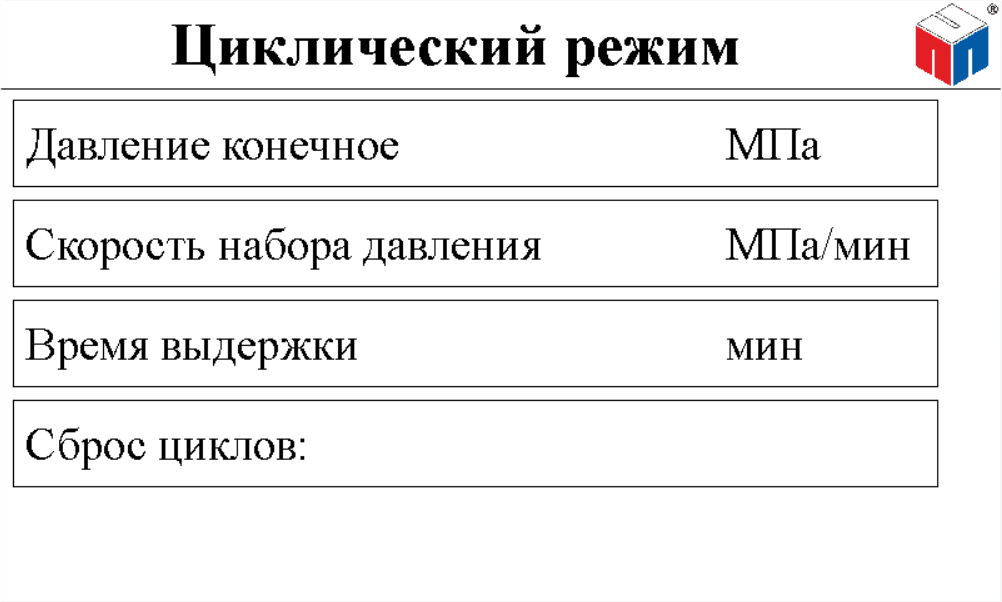
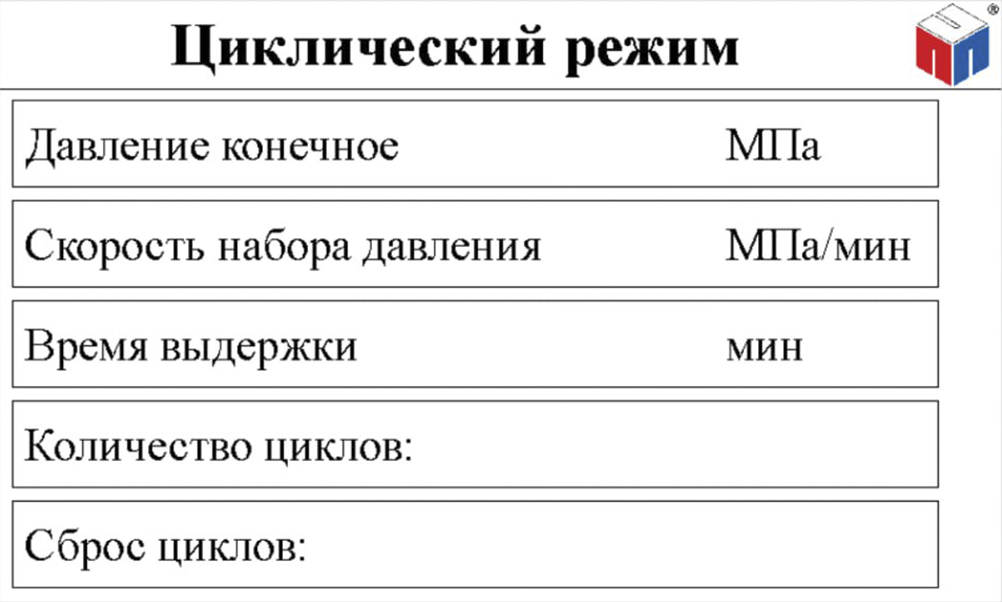
update sig pc

diff --git a/SIG/PC/utils/ModbusSlave.py b/SIG/PC/utils/ModbusSlave.py
@@ -28,7 +28,7 @@ class ModbusSlave:
     WRITE_MULTIPLE_COILS = 0x0F
     WRITE_MULTIPLE_REGISTERS = 0x10
 
-    def __init__(self, port='/dev/ttyS0', baudrate=9600, timeout=1, slave_id=1):
+    def __init__(self, port='/dev/ttyS0', baudrate=9600, timeout=1, slave_id=1, bytesize=8, parity='E', stopbits=1):
         """
         Инициализация Modbus Slave
 
@@ -37,6 +37,14 @@ class ModbusSlave:
         :param timeout: таймаут ожидания данных
         :param slave_id: идентификатор устройства (1-247)
         """
+        self.thread = None
+        self.port = port
+        self.baudrate = baudrate
+        self.timeout = timeout
+        self.bytesize = bytesize
+        self.parity = parity
+        self.stopbits = stopbits
+        self.serial = serial.Serial()
 
         self.slave_id = slave_id
         self.running = False
@@ -51,28 +59,93 @@ class ModbusSlave:
         # Инициализация CRC функции для RTU
         self.crc16 = mkCrcFun(0x18005, rev=True, initCrc=0xFFFF, xorOut=0x0000)
 
-
-        self.serial = serial.Serial(
-            port=port,
-            baudrate=baudrate,
-            bytesize=8,
-            parity='E',
-            stopbits=1,
-            timeout=timeout
-        )
-
         self.command_list = [self.WRITE_SINGLE_REGISTER, self.WRITE_MULTIPLE_REGISTERS]
 
     def start(self):
-        """Запуск сервера Modbus Slave"""
+        """Запуск сервера Modbus Slave с автоопределением порта"""
         self.running = True
 
-        self.thread = threading.Thread(target=self._rtu_loop)
+        if hasattr(self, 'serial') and self.serial.is_open:
+            self.serial.close()
 
-        self.thread.daemon = True
-        self.thread.start()
-        threading.Timer(5.0, self.read_delay).start()
+        # Попытка автоматического определения порта
+        if self._auto_detect_port():
+            self.thread = threading.Thread(target=self._rtu_loop)
+            self.thread.daemon = True
+            self.thread.start()
+            threading.Timer(5.0, self.read_delay).start()
+        else:
+            print("Не удалось найти подходящий COM-порт")
+            self.running = False
+            return
 
+    def _auto_detect_port(self, timeout=2.0):
+        """Автоматическое определение COM-порта"""
+        import serial.tools.list_ports
+
+        # Получаем список доступных портов
+        available_ports = serial.tools.list_ports.comports()
+        test_ports = [p.device for p in available_ports]
+
+        if not test_ports:
+            print("Нет доступных COM-портов")
+            return False
+
+        print(f"Доступные порты: {test_ports}")
+
+        for port in test_ports:
+            try:
+                print(f"Проверка порта {port}...")
+                ser = serial.Serial(
+                    port=port,
+                    baudrate=self.baudrate,
+                    bytesize=self.bytesize,
+                    parity=self.parity,
+                    stopbits=self.stopbits,
+                    timeout=self.timeout
+                )
+
+                # Проверяем, есть ли входящие данные
+                start_time = time.time()
+                data_received = False
+
+                while time.time() - start_time < timeout:
+                    if ser.in_waiting > 0:
+                        data = ser.read(ser.in_waiting)
+                        print(f"Получены данные на порту {port}: {data.hex()}")
+                        data_received = True
+                        break
+                    time.sleep(0.1)
+
+                if data_received:
+                    print(f"Выбран порт {port} (обнаружена активность)")
+                    self.port = port
+                    self.serial = ser
+                    return True
+                else:
+                    print(f"Порт {port} доступен, но активность не обнаружена")
+                    ser.close()
+
+            except serial.SerialException as e:
+                print(f"Ошибка при работе с портом {port}: {str(e)}")
+                continue
+
+        # Если ни один порт не подошел, пробуем использовать указанный в конфигурации
+        try:
+            print(f"Попытка использовать указанный порт {self.port}")
+            self.serial = serial.Serial(
+                port=self.port,
+                baudrate=self.baudrate,
+                bytesize=self.bytesize,
+                parity=self.parity,
+                stopbits=self.stopbits,
+                timeout=self.timeout
+            )
+            return True
+        except serial.SerialException as e:
+            print(f"Не удалось открыть указанный порт {self.port}: {str(e)}")
+
+            return False
 
     def read_delay(self):
         self.command_list.append(self.READ_HOLDING_REGISTERS)
@@ -85,7 +158,8 @@ class ModbusSlave:
             self.running = False
             self.thread.join()
 
-        self.serial.close()
+        if self.serial.is_open:
+            self.serial.close()
 
     def set_callback(self, function_code, callback):
         """

diff --git a/SIG/PC/frames/CycleSettings.py b/SIG/PC/frames/CycleSettings.py
@@ -48,9 +48,23 @@ class CycleSettings(BaseFrame):
 
         self.ent_time_pause.place(x=454, y=254, width=112)
 
+
+        self.cycle_need = ttk.Entry(self, style="Main.TEntry", font=('Times New Roman', 24), justify="center",
+                                        state="readonly")
+        self.cycle_need.insert(0, "0")
+
+        self.cycle_need.bind("<Button-1>",
+                            lambda e: self.on_entry_click(e, CYCLES_NEED_CYCLE , min_val=TIME_WAIT_MIN_MAX[0],
+                                                          max_val=TIME_WAIT_MIN_MAX[1],
+                                                          entry=self.cycle_need,
+                                                          ask_float=False))
+
+        self.cycle_need.place(x=454, y=330, width=112)
+
+
         self.reset_cycle_set = ttk.Button(self, text="Сбросить", command=self.reset_cycle_set_func,
                                           style="NonActive.TButton")
-        self.reset_cycle_set.place(x=450, y=330, width=120, height=50)
+        self.reset_cycle_set.place(x=450, y=406, width=120, height=50)
 
         # Кнопки
         btn_back = ttk.Button(self, text="Выбор режима",
@@ -84,3 +98,4 @@ class CycleSettings(BaseFrame):
         self.refresh_entry(self.ent_pressure_end, PRESSURE_END_CYCLE, is_float=True)
         self.refresh_entry(self.ent_pressure_speed, PRESSURE_SPEED_CYCLE, is_float=True)
         self.refresh_entry(self.ent_time_pause, TIME_PAUSE_CYCLE, is_float=False)
+        self.refresh_entry(self.cycle_need, CYCLES_NEED_CYCLE, is_float=False)

diff --git a/SIG/PC/frames/CycleMode.py b/SIG/PC/frames/CycleMode.py
@@ -13,10 +13,10 @@ class CycleMode(BaseFrame):
         # label.pack(pady=20)
 
         # Кнопка возврата к настройкам
-        btn_settings = ttk.Button(self, text="Настройки\n  режима",
+        self.btn_settings = ttk.Button(self, text="Настройки\n  режима",
                                   command=lambda: controller.show_frame("CycleSettings"), style="Second.TButton")
 
-        btn_settings.place(x=10, y=10, width=120, height=50)
+        self.btn_settings.place(x=10, y=10, width=120, height=50)
 
         self.mn1_mpa = ttk.Label(self, style="Main.TLabel", text="0.0", textvariable=self.controller.mn1_mpa_var)
         self.mn1_mpa.place(x=128, y=96, width=76)
@@ -82,3 +82,5 @@ class CycleMode(BaseFrame):
 
         # Обновление циклов
         self.controller.number_of_cycles_var.set(self.controller.slave.data_store["holding_registers"][NUMBER_OF_CYCLES])
+
+        self.update_back_button_state()

diff --git a/SIG/PC/frames/BaseFrame.py b/SIG/PC/frames/BaseFrame.py
@@ -85,7 +85,7 @@ class BaseFrame(tk.Frame):
     def after_update(self):
         self.update_widgets()
         # Перезапускаем задачу и обновляем after_id
-        self.after_id = self.after(1000, self.after_update)
+        self.after_id = self.after(250, self.after_update)
 
     def update_widgets(self):
         print("base")
@@ -326,4 +326,14 @@ class BaseFrame(tk.Frame):
         entry.delete(0, tk.END)
         entry.insert(0, str(new_value))
         entry.config(state="readonly")
+
+    def update_back_button_state(self):
+        # Получаем значение из хранилища
+        work_value = self.controller.slave.data_store["holding_registers"][WORK]
+
+        # Устанавливаем состояние кнопки
+        if work_value == 1:
+            self.btn_settings.config(state="disabled")
+        else:
+            self.btn_settings.config(state="normal")
 

diff --git a/SIG/PC/App.py b/SIG/PC/App.py
@@ -131,7 +131,10 @@ class App(tk.Tk):
         #self.slave.data_store["holding_registers"][3] = 3
         #self.slave.data_store["coils"][48] = 1
 
-        self.slave.start()
+        try:
+            self.slave.start()
+        except Exception as e:
+            print(e)
 
         self.protocol("WM_DELETE_WINDOW", self.on_close)
 
@@ -143,7 +146,11 @@ class App(tk.Tk):
         for frame in self.frames.values():
             frame.event_generate("<<HideFrame>>")
 
-        self.slave.stop()
+        try:
+            self.slave.stop()
+        except Exception as e:
+            print(e)
+
         self.frames["ManualMode"].pressure_graph.cleanup() if hasattr(self.frames["ManualMode"],
                                                                       'pressure_graph') else None
         self.frames["StatMode"].pressure_graph.cleanup() if hasattr(self.frames["StatMode"],

diff --git a/SIG/PC/frames/ManualMode.py b/SIG/PC/frames/ManualMode.py
@@ -100,6 +100,7 @@ class ManualMode(BaseFrame):
         self.controller.speed_mpa_var.set(round(speed_value, 1))
 
         self.refresh_entry(self.ent_frequency_percent, FREQ_MANUAL, is_float=False)
+        self.update_back_button_state()
 
 
 

diff --git a/SIG/PC/frames/StatMode.py b/SIG/PC/frames/StatMode.py
@@ -75,3 +75,5 @@ class StatMode(BaseFrame):
         speed_value = self.get_float_from_registers(SPEED)
         self.controller.speed_mpa_var.set(round(speed_value, 1))
 
+        self.update_back_button_state()
+
